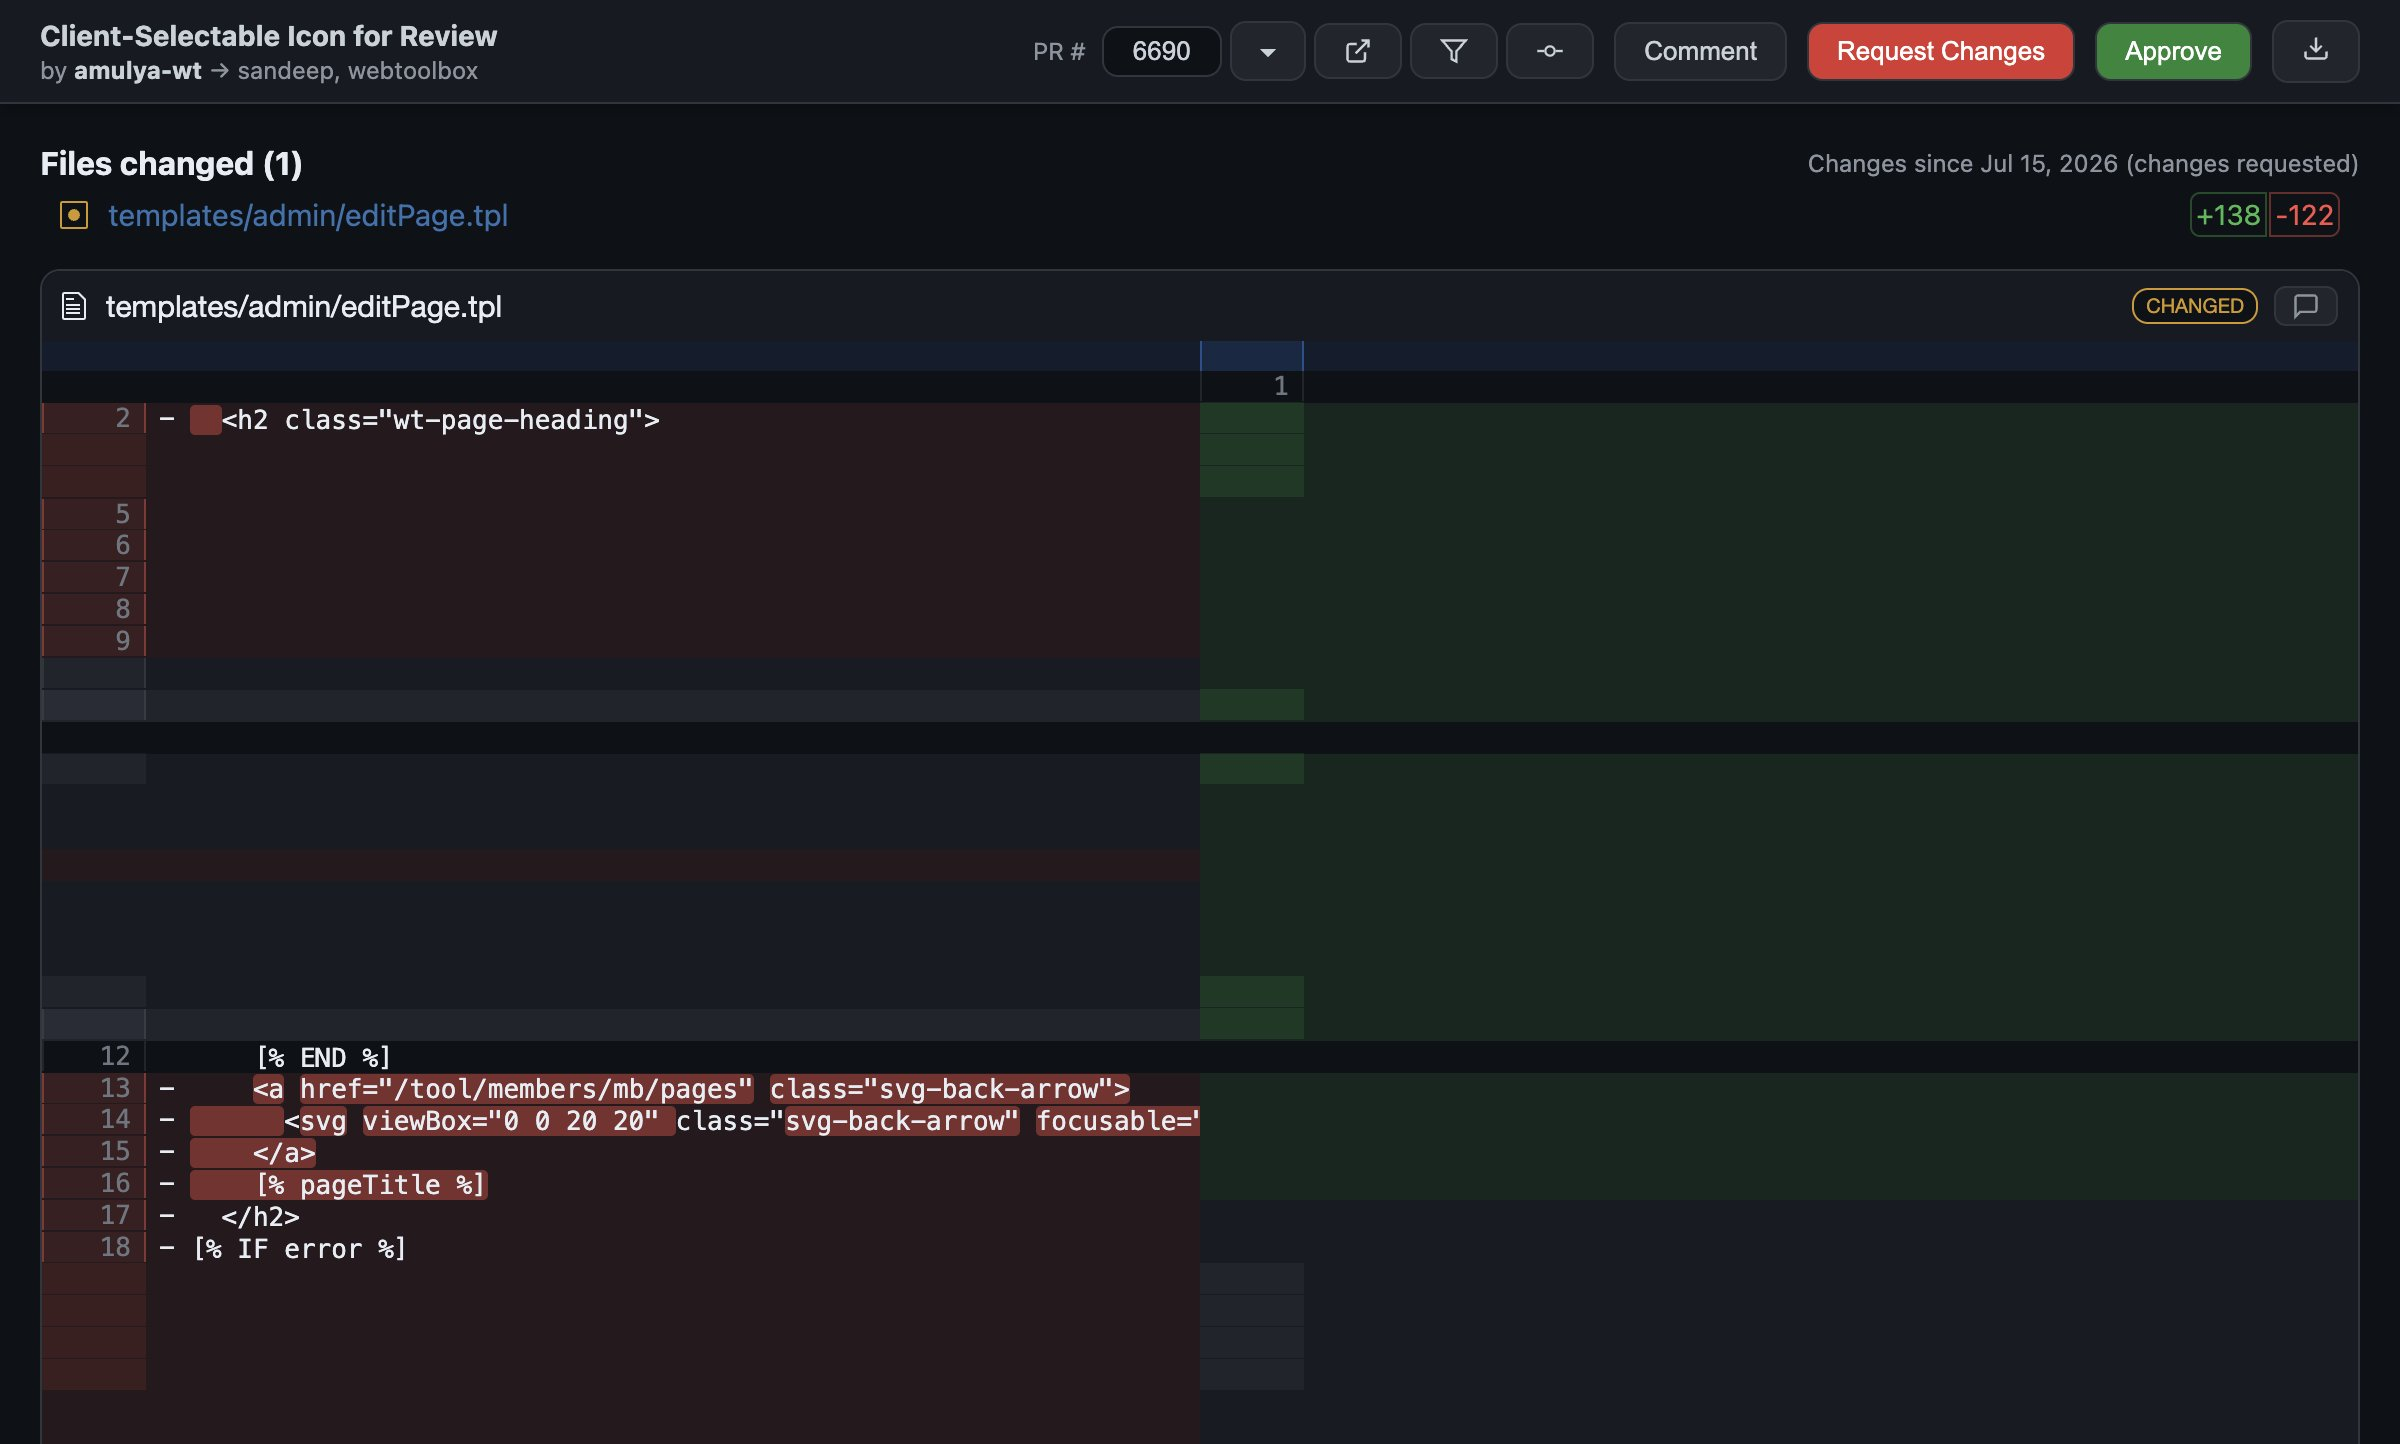
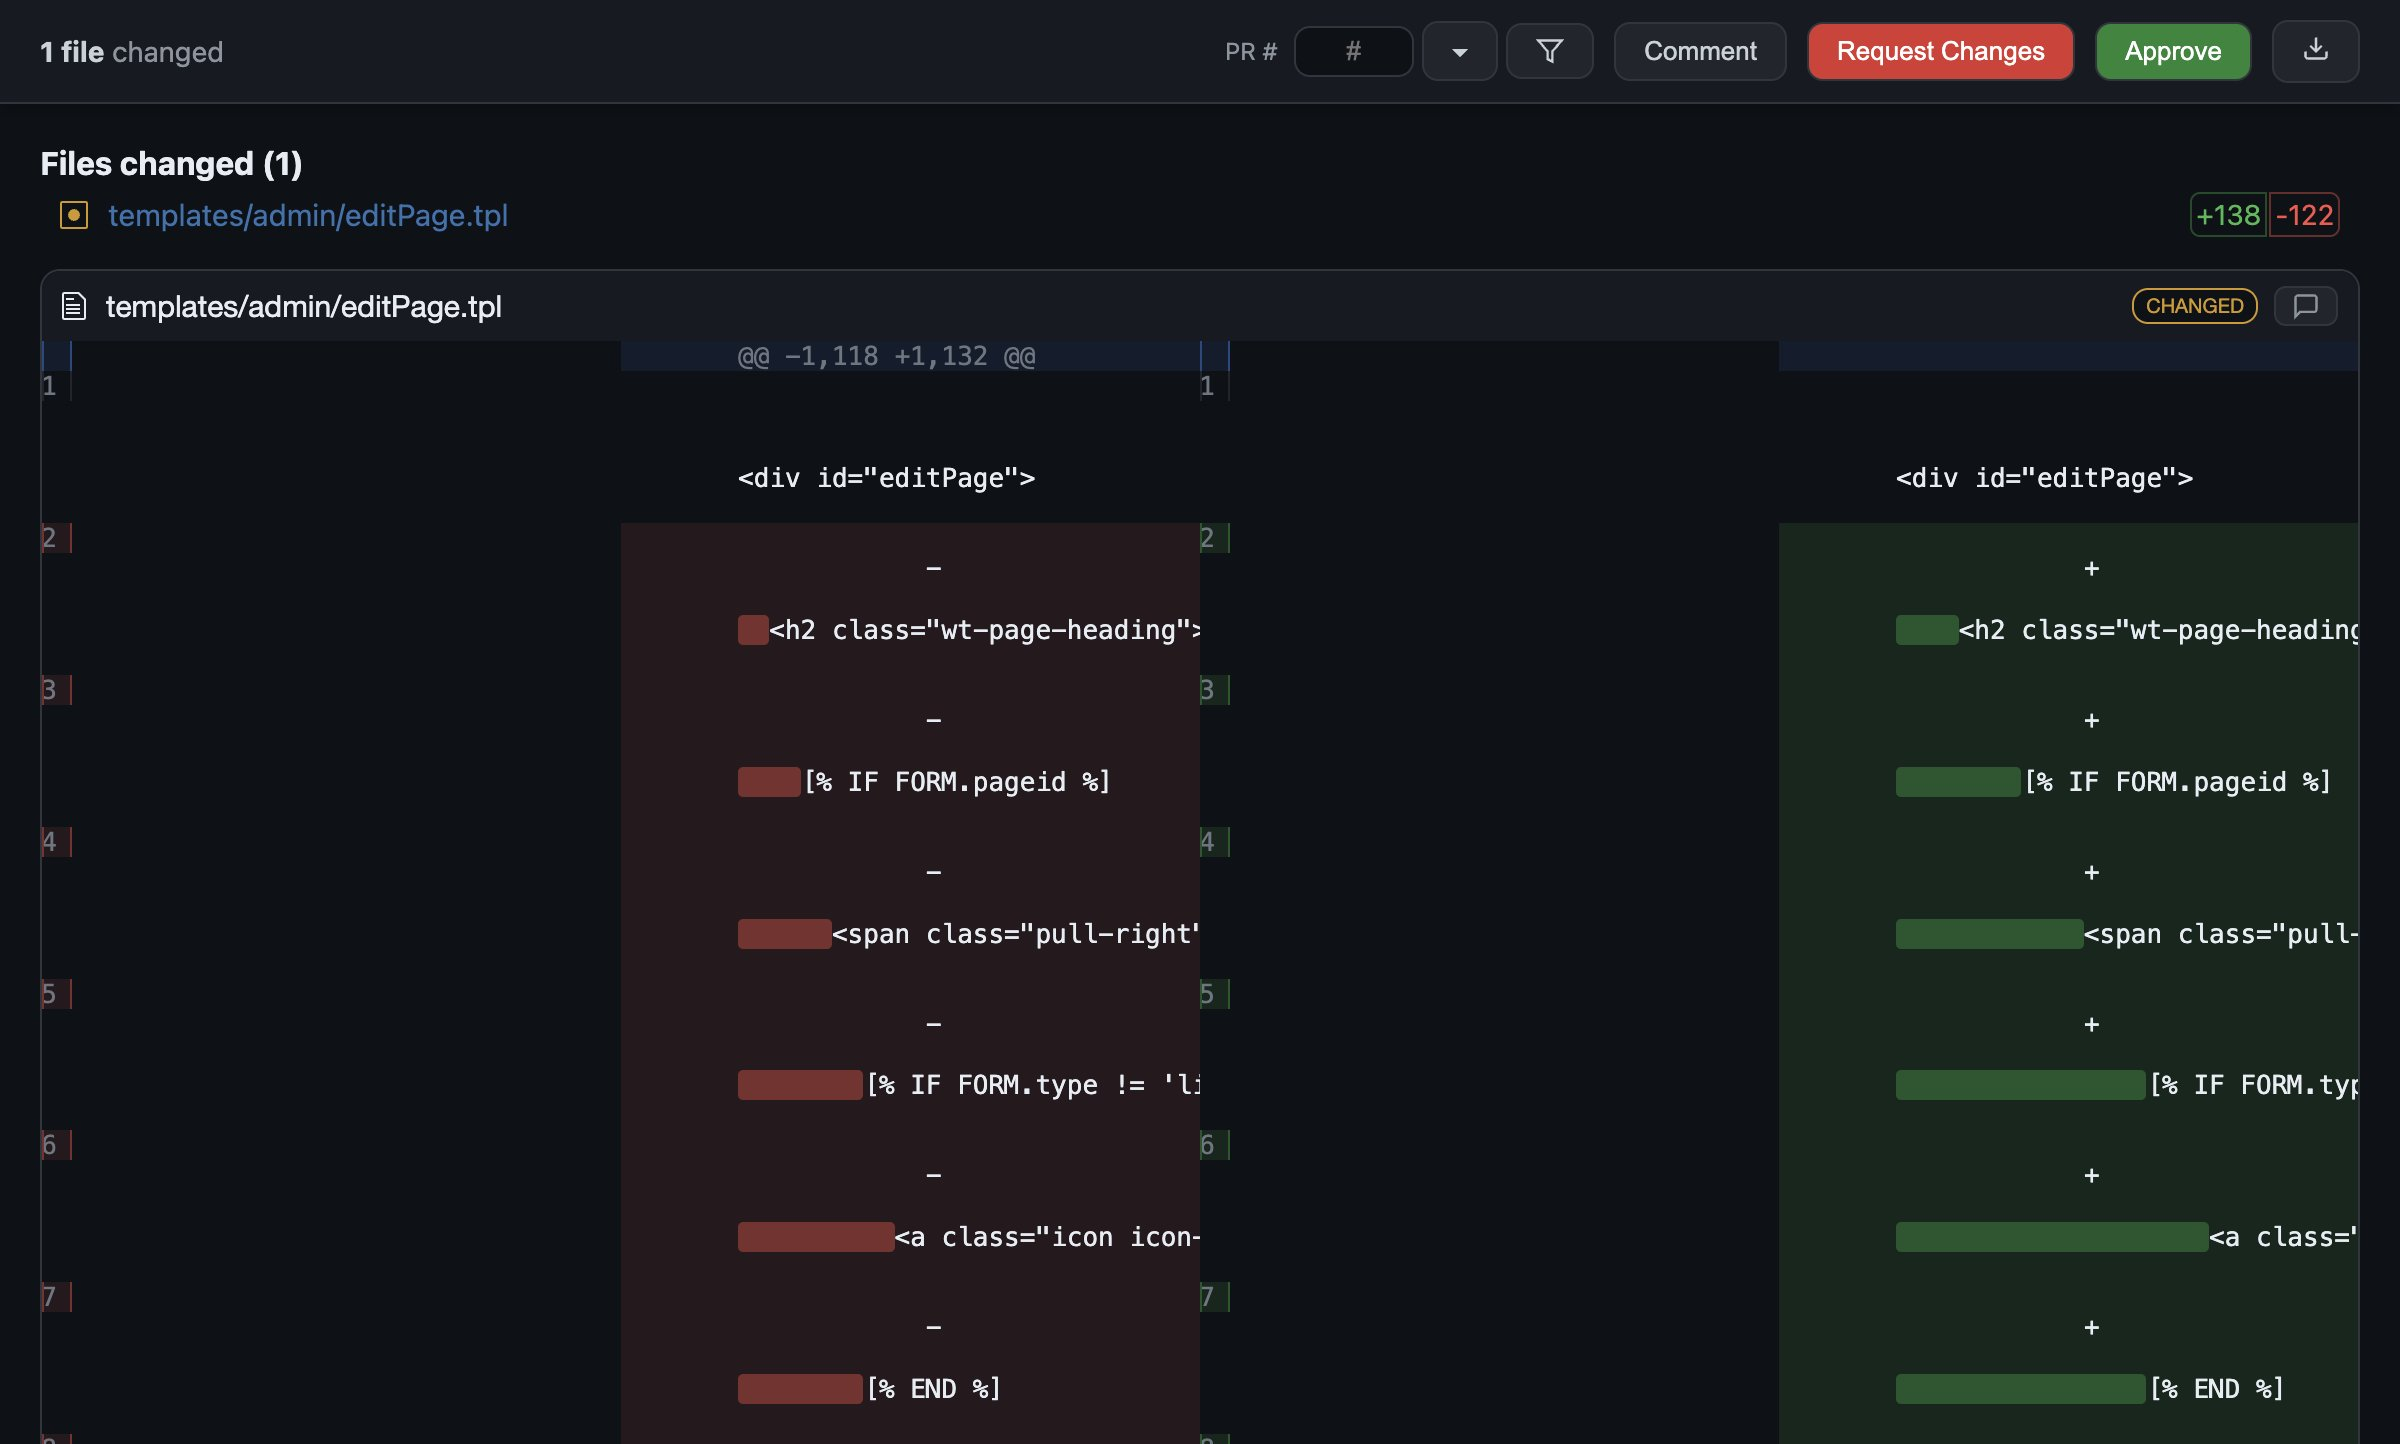
Fix diff right side not showing text
- Constrain d2h-diff-table to panel width with table-layout:fixed
- Code lines: display:block, width:100%, white-space:pre-wrap, word-break:break-word
- Side diff: overflow-x:hidden to prevent overflow
- td cells: max-width:0 to force table-layout:fixed to work

diff --git a/debug2.js b/debug2.js
@@ -1,0 +1,61 @@
+const{app,BrowserWindow,ipcMain}=require('electron'),p=require('path'),fs=require('fs');
+['open-file','save-review','save-draft','load-draft','delete-draft','export-markdown','load-pr','open-pr-new-window'].forEach(h=>ipcMain.handle(h,async()=>null));
+ipcMain.handle('save-image',async()=>null);
+ipcMain.handle('list-prs',async()=>({prs:[]}));
+ipcMain.handle('get-pr-commits',async()=>({commits:[],prUrl:''}));
+ipcMain.handle('get-file-blame',async()=>({}));
+ipcMain.handle('get-config',async()=>({}));
+app.whenReady().then(async()=>{
+  const diff=fs.readFileSync(process.argv[process.argv.length-1],'utf8');
+  const w=new BrowserWindow({width:1200,height:750,show:false,webPreferences:{preload:p.join(__dirname,'preload.js'),contextIsolation:true,nodeIntegration:false}});
+  w.loadFile('index.html');
+  w.webContents.on('did-finish-load',async()=>{
+    await w.webContents.executeJavaScript(`loadDiff(${JSON.stringify(diff)},'/tmp/test.diff')`);
+    await new Promise(r=>setTimeout(r,2000));
+
+    const info = await w.webContents.executeJavaScript(`
+      const rightSide = document.querySelectorAll('.d2h-file-side-diff')[1];
+      const wrapper = document.querySelector('.d2h-file-wrapper');
+      
+      // Check wrapper and right side overflow settings
+      const wrapperStyles = getComputedStyle(wrapper);
+      const rightStyles = getComputedStyle(rightSide);
+      
+      // Get the actual code content from a visible area
+      const codeLines = rightSide.querySelectorAll('.d2h-code-side-line');
+      const visibleLines = Array.from(codeLines).slice(2, 8).map(l => {
+        const rect = l.getBoundingClientRect();
+        return {
+          text: l.textContent.trim().substring(0, 60),
+          width: l.offsetWidth,
+          height: l.offsetHeight,
+          rectLeft: rect.left,
+          rectRight: rect.right,
+          color: getComputedStyle(l).color,
+          visibility: getComputedStyle(l).visibility,
+          display: getComputedStyle(l).display
+        };
+      });
+      
+      // Check the d2h-code-wrapper
+      const codeWrapper = rightSide.querySelector('.d2h-code-wrapper');
+      const codeWrapperStyles = codeWrapper ? getComputedStyle(codeWrapper) : {};
+      
+      JSON.stringify({
+        wrapperOverflowX: wrapperStyles.overflowX,
+        wrapperOverflowY: wrapperStyles.overflowY,
+        rightOverflowX: rightStyles.overflowX,
+        rightOverflowY: rightStyles.overflowY,
+        rightWidth: rightSide.offsetWidth,
+        rightScrollWidth: rightSide.scrollWidth,
+        codeWrapperOverflow: codeWrapperStyles.overflowX,
+        codeWrapperWidth: codeWrapper?.offsetWidth,
+        codeWrapperScrollWidth: codeWrapper?.scrollWidth,
+        visibleLines
+      })
+    `);
+    console.log(info);
+    app.exit(0);
+  });
+});
+app.on('window-all-closed',()=>app.quit());

diff --git a/debug-diff.js b/debug-diff.js
@@ -1,0 +1,56 @@
+const{app,BrowserWindow,ipcMain}=require('electron'),p=require('path'),fs=require('fs');
+['open-file','save-review','save-draft','load-draft','delete-draft','export-markdown','load-pr','open-pr-new-window'].forEach(h=>ipcMain.handle(h,async()=>null));
+ipcMain.handle('save-image',async()=>null);
+ipcMain.handle('list-prs',async()=>({prs:[]}));
+ipcMain.handle('get-pr-commits',async()=>({commits:[],prUrl:''}));
+ipcMain.handle('get-file-blame',async()=>({}));
+ipcMain.handle('get-config',async()=>({}));
+app.whenReady().then(async()=>{
+  const diff=fs.readFileSync(process.argv[process.argv.length-1],'utf8');
+  const w=new BrowserWindow({width:1200,height:750,show:false,webPreferences:{preload:p.join(__dirname,'preload.js'),contextIsolation:true,nodeIntegration:false}});
+  w.loadFile('index.html');
+  w.webContents.on('did-finish-load',async()=>{
+    await w.webContents.executeJavaScript(`loadDiff(${JSON.stringify(diff)},'/tmp/test.diff')`);
+    await new Promise(r=>setTimeout(r,2000));
+
+    // Check what the right side actually contains
+    const info = await w.webContents.executeJavaScript(`
+      const rightSide = document.querySelectorAll('.d2h-file-side-diff')[1];
+      if (!rightSide) { JSON.stringify({error:'no right side found'}); }
+      
+      // Get all code cells in the right side
+      const codeCells = rightSide.querySelectorAll('td.d2h-code-linenumber, td.d2h-code-side-linenumber, .d2h-code-line, .d2h-code-side-line');
+      const firstFewCells = Array.from(codeCells).slice(0, 10).map(c => ({
+        cls: c.className,
+        text: c.textContent.trim().substring(0, 80),
+        width: c.offsetWidth,
+        height: c.offsetHeight,
+        bg: getComputedStyle(c).backgroundColor
+      }));
+      
+      // Also check the right side table structure
+      const tables = rightSide.querySelectorAll('table');
+      const tableInfo = Array.from(tables).map(t => ({
+        cls: t.className,
+        rows: t.rows?.length,
+        width: t.offsetWidth,
+        firstRowCells: t.rows?.[0]?.cells?.length
+      }));
+      
+      // Check right side width and visibility
+      const rightRect = rightSide.getBoundingClientRect();
+      
+      JSON.stringify({
+        rightSideWidth: rightSide.offsetWidth,
+        rightSideVisible: rightSide.style.display !== 'none',
+        rightRect: {width: rightRect.width, height: rightRect.height, left: rightRect.left},
+        tableInfo,
+        firstFewCells,
+        rightSideHTML: rightSide.innerHTML.substring(0, 500)
+      })
+    `);
+    console.log(info);
+    app.exit(0);
+  });
+});
+app.on('window-all-closed',()=>app.quit());

diff --git a/index.html b/index.html
@@ -225,12 +225,13 @@
     .line-comment-marker strong { color: #58a6ff; }
 
     /* Inline comment form */
-    .d2h-file-side-diff { overflow-y: visible !important; }
+    .d2h-file-side-diff { overflow-y: visible !important; overflow-x: hidden !important; }
+    .d2h-file-side-diff .d2h-diff-table { table-layout: fixed !important; width: 100% !important; }
+    .d2h-file-side-diff td { max-width: 0 !important; overflow: hidden !important; }
 
     /* Rounded diff containers */
-    .d2h-file-wrapper { border-radius: 10px !important; overflow: clip !important; }
-    .d2h-files-diff { border-radius: 0 0 10px 10px !important; overflow: clip !important; }
-    .d2h-diff-table { border-radius: 0 0 10px 10px !important; }
+    .d2h-file-wrapper { border-radius: 10px !important; overflow-x: visible !important; overflow-y: clip !important; }
+    .d2h-files-diff { overflow-x: auto !important; }
     .comment-form-row td { padding: 4px !important; max-width: 50vw; overflow: hidden; }
     .comment-form-row .comment-form {
       background: #161b22; border-left: 3px solid #58a6ff;
@@ -413,7 +414,7 @@
     .line-comment-btn:hover { background: #2ea043; transform: translateY(-50%) scale(1.1); }
     .d2h-code-side-line:hover .line-comment-btn { display: block; }
     .d2h-code-line:hover .line-comment-btn { display: block; }
-    .d2h-code-side-line, .d2h-code-line { position: relative; }
+    .d2h-code-side-line, .d2h-code-line { position: relative; white-space: pre-wrap !important; word-break: break-word !important; display: block !important; width: 100% !important; }
 
     /* Review body */
     #review-body-container h3 { margin-bottom: 8px; color: #8b949e; font-size: 14px; }